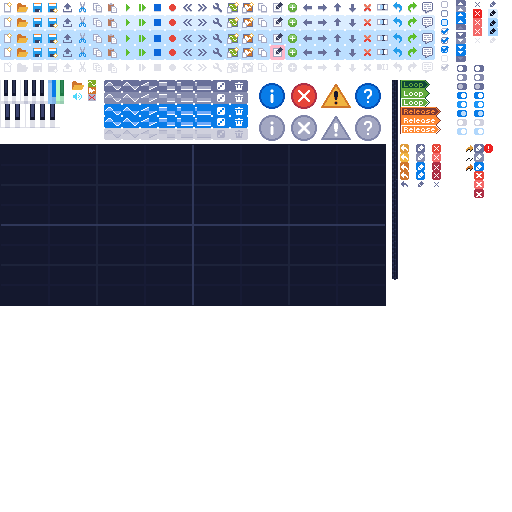
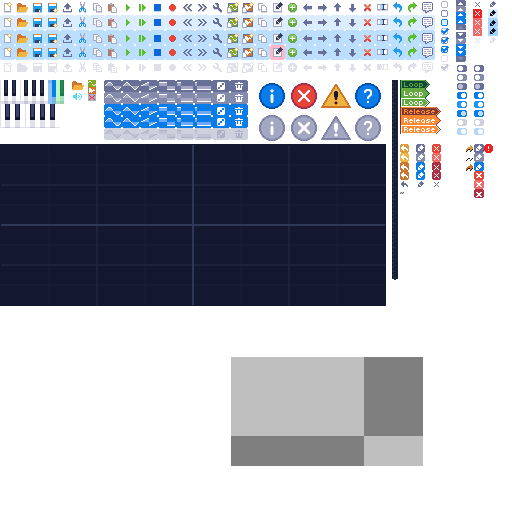
Adds editing color theme

Changed region(s): [[0.4375, 0.6875, 0.8438, 0.9375]]

diff --git a/Source/UI/ColorButtonList.cs b/Source/UI/ColorButtonList.cs
@@ -9,24 +9,20 @@ using System.Text;
 using System.Threading.Tasks;
 
 namespace WaveTracker.UI {
-    public class ColorList : Clickable {
-        Dictionary<string, Color> entries;
-        ColorButton[] colorButtons;
+    public class ColorButtonList : Clickable {
+        Dictionary<string, ColorButton> entries;
         Scrollbar scrollbar;
         int numRows;
-        int selectedIndex;
-        const int ROW_HEIGHT = 13;
+        const int ROW_HEIGHT = 17;
 
-        public bool ShowItemNumbers { get; set; }
-        public int HoveredIndex { get { return selectedIndex; } set { selectedIndex = Math.Clamp(value, 0, entries.Count - 1); } }
-
-        public ColorList(int x, int y, int width, int numVisibleRows, Element parent) {
+        public ColorButtonList(int x, int y, int width, int numVisibleRows, Element parent) {
             this.x = x;
             this.y = y;
             this.width = width;
             this.height = numVisibleRows * ROW_HEIGHT;
             this.numRows = numVisibleRows;
             scrollbar = new Scrollbar(0, 0, width, height, this);
+
             SetParent(parent);
         }
 
@@ -34,9 +30,11 @@ namespace WaveTracker.UI {
         /// Sets the list for this box to reference
         /// </summary>
         public void SetDictionary(Dictionary<string, Color> colors) {
-            entries = new Dictionary<string, Color>();
+            entries = new Dictionary<string, ColorButton>();
             foreach (KeyValuePair<string, Color> pair in colors) {
-                entries.Add(pair.Key, pair.Value);
+                ColorButton button = new ColorButton(pair.Value, 0, 0, this);
+                button.DrawBorder = false;
+                entries.Add(pair.Key, button);
             }
         }
 
@@ -46,32 +44,50 @@ namespace WaveTracker.UI {
         /// Saves the list in this box to the given dictionary
         /// </summary>
         public void SaveDictionaryInto(Dictionary<string, Color> colors) {
-            foreach (KeyValuePair<string, Color> pair in entries) {
-                colors[pair.Key] = pair.Value;
+            foreach (KeyValuePair<string, ColorButton> pair in entries) {
+                colors[pair.Key] = pair.Value.Color;
             }
         }
 
 
         public void Update() {
-            scrollbar.SetSize(entries.Count, numRows);
-            scrollbar.UpdateScrollValue();
-            scrollbar.Update();
-            HoveredIndex = -1;
-            if (MouseX >= 0 && MouseX < width - 7) {
-                int rowPos = 0;
-                for (int i = scrollbar.ScrollValue; i < numRows + scrollbar.ScrollValue; i++) {
-                    if (MouseY > rowPos && MouseY <= rowPos + ROW_HEIGHT) {
-                        HoveredIndex = i;
-                    }
-                    rowPos += ROW_HEIGHT;
+            if (InFocus) {
+                scrollbar.SetSize(entries.Count, numRows);
+                scrollbar.UpdateScrollValue();
+                scrollbar.Update();
+                int rowNum = numRows - 1;
+                for (int i = numRows + scrollbar.ScrollValue - 1; i >= scrollbar.ScrollValue; i--) {
+                    entries.ElementAt(i).Value.x = 2;
+                    entries.ElementAt(i).Value.y = 2 + rowNum * ROW_HEIGHT;
+                    entries.ElementAt(i).Value.Update();
+                    rowNum--;
                 }
             }
+            //if (MouseX >= 0 && MouseX < width - 7) {
+            //    int rowPos = 0;
+            //    for (int i = scrollbar.ScrollValue; i < numRows + scrollbar.ScrollValue; i++) {
+            //        if (MouseY > rowPos && MouseY <= rowPos + ROW_HEIGHT) {
+            //            HoveredIndex = i;
+            //        }
+            //        rowPos += ROW_HEIGHT;
+            //    }
+            //}
         }
 
 
         public void Draw() {
-            //scrollbar.Draw();
+            scrollbar.Draw();
 
+            Color bgColor = new Color(43, 49, 81);
+            Color bgColor2 = new Color(59, 68, 107);
+
+            int rowNum = numRows - 1;
+            for (int i = numRows + scrollbar.ScrollValue - 1; i >= scrollbar.ScrollValue; i--) {
+                DrawRect(0, rowNum * ROW_HEIGHT, width - 6, ROW_HEIGHT, i % 2 == 0 ? bgColor2 : bgColor);
+                entries.ElementAt(i).Value.Draw();
+                Write(entries.ElementAt(i).Key, 68, rowNum * ROW_HEIGHT + 5, Color.White);
+                rowNum--;
+            }
             //Color bgColor = new Color(43, 49, 81);
             //Color selectedColor = new Color(59, 68, 107);
             //Color errorColor = new Color(120, 29, 79);
@@ -171,22 +187,6 @@ namespace WaveTracker.UI {
             //editButton.Draw();
             //resetToDefaultButton.Draw();
 
-        }
-
-        class ListEntry {
-            public int dictionaryIndex;
-            public string categoryName;
-            public string actionName;
-            public Color color;
-            public bool isLabel;
-
-            public ListEntry(int i, string categoryName, string actionName, Color color, bool isLabel) {
-                dictionaryIndex = i;
-                this.categoryName = categoryName;
-                this.actionName = actionName;
-                this.color = color;
-                this.isLabel = isLabel;
-            }
         }
     }
 }

diff --git a/Source/Rendering/Colors.cs b/Source/Rendering/Colors.cs
@@ -8,43 +8,43 @@ using System.Linq;
 namespace WaveTracker {
 
     public class ColorTheme {
-        Dictionary<string, Color> colors;
+        public Dictionary<string, Color> Colors { get; private set; }
 
         public Color this[string name] {
-            get { return colors[name]; }
-            set { colors[name] = value; }
+            get { return Colors[name]; }
+            set { Colors[name] = value; }
         }
 
         public ColorTheme() {
-            colors = new Dictionary<string, Color>();
-            colors.Add("Row background (primary highlight)", Helpers.HexCodeToColor("212840"));
-            colors.Add("Row background (secondary highlight)", Helpers.HexCodeToColor("1a1f36"));
-            colors.Add("Row background", Helpers.HexCodeToColor("14182e"));
+            Colors = new Dictionary<string, Color>();
+            Colors.Add("Row background (primary highlight)", Helpers.HexCodeToColor("212840"));
+            Colors.Add("Row background (secondary highlight)", Helpers.HexCodeToColor("1a1f36"));
+            Colors.Add("Row background", Helpers.HexCodeToColor("14182e"));
 
-            colors.Add("Row text (primary highlight)", Helpers.HexCodeToColor("caf5fe"));
-            colors.Add("Row text (secondary highlight)", Helpers.HexCodeToColor("bbd7fe"));
-            colors.Add("Row text", Helpers.HexCodeToColor("ffffff"));
-            colors.Add("Empty dashes tint", Helpers.HexCodeToColor("ffffff12"));
+            Colors.Add("Row text (primary highlight)", Helpers.HexCodeToColor("caf5fe"));
+            Colors.Add("Row text (secondary highlight)", Helpers.HexCodeToColor("bbd7fe"));
+            Colors.Add("Row text", Helpers.HexCodeToColor("ffffff"));
+            Colors.Add("Empty dashes tint", Helpers.HexCodeToColor("ffffff12"));
 
-            colors.Add("Instrument (wave)", Helpers.HexCodeToColor("5aea3d"));
-            colors.Add("Instrument (sample)", Helpers.HexCodeToColor("ff9932"));
-            colors.Add("Volume", Helpers.HexCodeToColor("50e7e5"));
-            colors.Add("Effect", Helpers.HexCodeToColor("ff5277"));
-            colors.Add("Effect parameter", Helpers.HexCodeToColor("ffd0d0"));
+            Colors.Add("Instrument (wave)", Helpers.HexCodeToColor("5aea3d"));
+            Colors.Add("Instrument (sample)", Helpers.HexCodeToColor("ff9932"));
+            Colors.Add("Volume", Helpers.HexCodeToColor("50e7e5"));
+            Colors.Add("Effect", Helpers.HexCodeToColor("ff5277"));
+            Colors.Add("Effect parameter", Helpers.HexCodeToColor("ffd0d0"));
 
-            colors.Add("Cursor", Helpers.HexCodeToColor("7e85a8"));
-            colors.Add("Selection", Helpers.HexCodeToColor("8080ff96"));
+            Colors.Add("Cursor", Helpers.HexCodeToColor("7e85a8"));
+            Colors.Add("Selection", Helpers.HexCodeToColor("8080ff96"));
 
-            colors.Add("Current row (default)", Helpers.HexCodeToColor("1b3782"));
-            colors.Add("Current row empty dashes (default)", Helpers.HexCodeToColor("2a539c"));
+            Colors.Add("Current row (default)", Helpers.HexCodeToColor("1b3782"));
+            Colors.Add("Current row empty dashes (default)", Helpers.HexCodeToColor("2a539c"));
 
-            colors.Add("Current row (editing)", Helpers.HexCodeToColor("6d1d4e"));
-            colors.Add("Current row empty dashes (editing)", Helpers.HexCodeToColor("a2276b"));
+            Colors.Add("Current row (editing)", Helpers.HexCodeToColor("6d1d4e"));
+            Colors.Add("Current row empty dashes (editing)", Helpers.HexCodeToColor("a2276b"));
 
-            colors.Add("Playback row", Helpers.HexCodeToColor("311f58"));
-            colors.Add("Playback row empty dashes", Helpers.HexCodeToColor("3e2e65"));
+            Colors.Add("Playback row", Helpers.HexCodeToColor("311f58"));
+            Colors.Add("Playback row empty dashes", Helpers.HexCodeToColor("3e2e65"));
 
-            colors.Add("Channel separator", Helpers.HexCodeToColor("313859"));
+            Colors.Add("Channel separator", Helpers.HexCodeToColor("313859"));
 
         }
 
@@ -128,9 +128,9 @@ namespace WaveTracker {
         /// <returns></returns>
         public static string CreateString(ColorTheme theme) {
             string str = "";
-            for (int i = 0; i < theme.colors.Count; i++) {
-                str += theme.colors.ElementAt(0).Key + "=" + theme.colors.ElementAt(i).Value.GetHexCode();
-                if (i < theme.colors.Count - 1)
+            for (int i = 0; i < theme.Colors.Count; i++) {
+                str += theme.Colors.ElementAt(0).Key + "=" + theme.Colors.ElementAt(i).Value.GetHexCode();
+                if (i < theme.Colors.Count - 1)
                     str += "\n";
             }
             return str;
@@ -146,7 +146,7 @@ namespace WaveTracker {
             string[] lines = fileText.Split('\n');
             foreach (string line in lines) {
                 string[] keyValuePair = line.Split('=');
-                if (theme.colors.ContainsKey(keyValuePair[0])) {
+                if (theme.Colors.ContainsKey(keyValuePair[0])) {
                     theme[keyValuePair[0]] = Helpers.HexCodeToColor(keyValuePair[1]);
                 }
             }

diff --git a/Source/UI/ConfigurationDialog.cs b/Source/UI/ConfigurationDialog.cs
@@ -199,7 +199,7 @@ namespace WaveTracker.UI {
         /// Reads the controls on this dialog into the app's settings profile
         /// </summary>
         void ApplySettings() {
-        
+
 
             App.Settings.General.ScreenScale = pages["General"]["Screen scale"].ValueInt + 1;
             while (App.ClientWindow.ClientBounds.Height / App.Settings.General.ScreenScale < height) {
@@ -218,7 +218,7 @@ namespace WaveTracker.UI {
             App.Settings.Files.DefaultRowPrimaryHighlight = pages["Files"]["Default row highlight primary"].ValueInt;
             App.Settings.Files.DefaultRowSecondaryHighlight = pages["Files"]["Default row highlight secondary"].ValueInt;
 
-            (pages["Appearance"] as AppearancePage).LoadColorsFrom(App.Settings.Appearance.Theme);
+            (pages["Appearance"] as AppearancePage).SaveColorsInto(App.Settings.Appearance.Theme);
 
             App.Settings.PatternEditor.ShowRowNumbersInHex = pages["Pattern Editor"]["Show row numbers in hex"].ValueBool;
             App.Settings.PatternEditor.ShowNoteOffAndReleaseAsText = pages["Pattern Editor"]["Show note off/release as text"].ValueBool;
@@ -440,20 +440,27 @@ namespace WaveTracker.UI {
         }
 
         class AppearancePage : Page {
+            ColorButtonList colorList;
             public AppearancePage(Element parent) : base(parent) {
                 AddLabel("Appearance");
+                colorList = new ColorButtonList(4, ypos, width - 8, 9, this);
             }
 
             public override void Update() {
                 base.Update();
+                colorList.Update();
             }
 
             public override void Draw() {
                 base.Draw();
+                colorList.Draw();
             }
 
             public void LoadColorsFrom(ColorTheme theme) {
-
+                colorList.SetDictionary(theme.Colors);
+            }
+            public void SaveColorsInto(ColorTheme theme) {
+                colorList.SaveDictionaryInto(theme.Colors);
             }
         }
         #endregion

diff --git a/Source/UI/ColorButton.cs b/Source/UI/ColorButton.cs
@@ -11,6 +11,8 @@ using WaveTracker.Rendering;
 namespace WaveTracker.UI {
     public class ColorButton : Clickable {
         public Color Color { get; set; }
+        public bool NeverShowAlpha { get; set; }
+        public bool DrawBorder { get; set; }
         public string HexValue {
             get { return Color.GetHexCodeWithAlpha(); }
             set { Color = Helpers.HexCodeToColor(value); }
@@ -21,8 +23,10 @@ namespace WaveTracker.UI {
             this.x = x;
             this.y = y;
             this.Color = color;
-            width = 55;
+            width = 62;
             height = 13;
+            DrawBorder = true;
+            NeverShowAlpha = false;
             SetParent(parent);
         }
 
@@ -45,7 +49,10 @@ namespace WaveTracker.UI {
             else {
                 textColor = Color.Black;
             }
-            DrawRect(0, 0, width, height, ButtonColors.Round.backgroundColor);
+            if (DrawBorder) {
+                DrawRect(0, 0, width, height, ButtonColors.Round.backgroundColor);
+            }
+            DrawSprite(1, 1, width - 2, height - 2, new Rectangle(400, 192, 4, 2), Color.White);
 
             // draw color
             DrawRect(1, 1, width - 2, height - 2, displayColor);
@@ -62,7 +69,8 @@ namespace WaveTracker.UI {
             DrawRect(1, height - 2, width - 2, 1, outlineColor);
             DrawRect(width - 2, 2, 1, height - 4, outlineColor);
 
-            string label = "#" + Color.GetHexCode();
+
+            string label = "#" + (NeverShowAlpha ? Color.GetHexCode() : Color.GetHexCodeWithAlpha());
             int labelWidth = Helpers.GetWidthOfText(label);
             Write(label, (width - labelWidth) / 2, (height + 1) / 2 - 4, textColor);
         }

diff --git a/Source/UI/Dialogs.cs b/Source/UI/Dialogs.cs
@@ -48,7 +48,6 @@ namespace WaveTracker.UI {
         public static void Update() {
             moduleSettings.Update();
             preferences.Update();
-            colorPicker.Update();
             humanizeDialog.Update();
             exportDialog.Update();
             exportingDialog.Update();
@@ -58,6 +57,7 @@ namespace WaveTracker.UI {
             waveSmoothDialog.Update();
             waveSyncDialog.Update();
             configurationDialog.Update();
+            colorPicker.Update();
 
             messageDialog.Update();
         }
@@ -65,7 +65,6 @@ namespace WaveTracker.UI {
         public static void Draw() {
             moduleSettings.Draw();
             preferences.Draw();
-            colorPicker.Draw();
             humanizeDialog.Draw();
             exportDialog.Draw();
             exportingDialog.Draw();
@@ -75,6 +74,7 @@ namespace WaveTracker.UI {
             waveSmoothDialog.Draw();
             waveSyncDialog.Draw();
             configurationDialog.Draw();
+            colorPicker.Draw();
 
 
             messageDialog.Draw();
